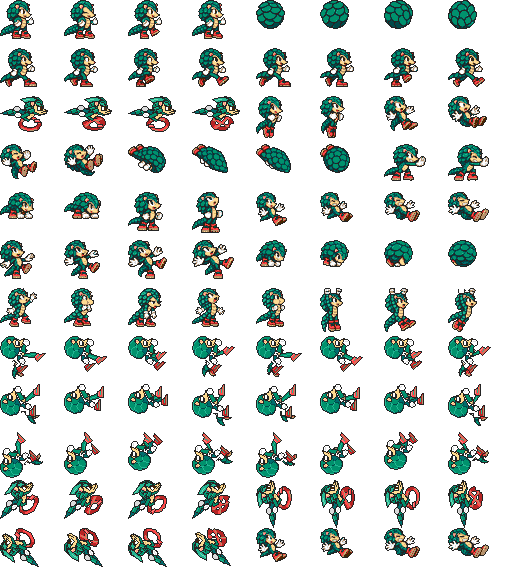
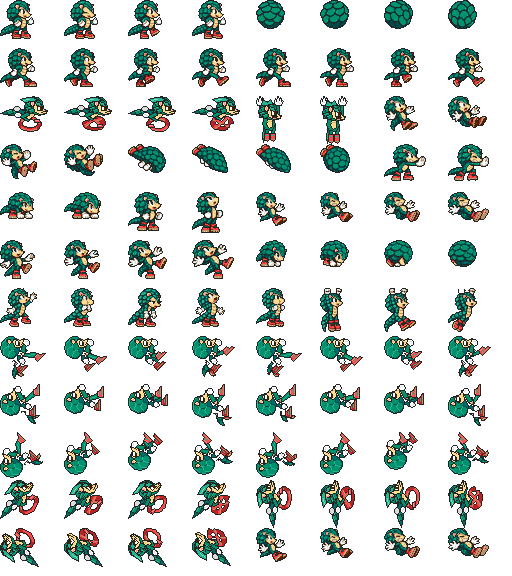
fix(art): stretch Mica spring launch with consistent head
Changelog: n/a: example art feedback pass; W7 design handoff records changes
Guide: n/a
Known-Discrepancies: n/a
S3K-Known-Discrepancies: n/a
Agent-Docs: n/a
Configuration-Docs: n/a
Skills: n/a

Changed region(s): [[0.625, 0.1562, 0.6875, 0.25], [0.5, 0.1562, 0.5625, 0.25]]

diff --git a/docs/architecture/designs/2026-11-08-original-character-mod.md b/docs/architecture/designs/2026-11-08-original-character-mod.md
@@ -245,6 +245,9 @@ with changing cutouts/crossing strokes. Runtime slope contact remains unverified
 the hood/scale clusters are simpler than the generated core artwork. Python
 assembly roundtrip passes (96 frames, 17 scripts, at most 36 tiles/frame); no
 Java build, GGFP bake or gameplay certification is claimed.
+SPRING now has two stretched launch poses with an identical head contour, open
+raised gloves, paired downward boots and hanging tail. Glove reach and boot
+extension change in the second beat; the existing 24+24-tick exit to WALK stays.
 
 W7 art-lane round 2 handoff (2026-11-08, `feature/ai-mica-art2`):
 `art/mica/presentation/presentation.yaml` now describes 18 native-size indexed
